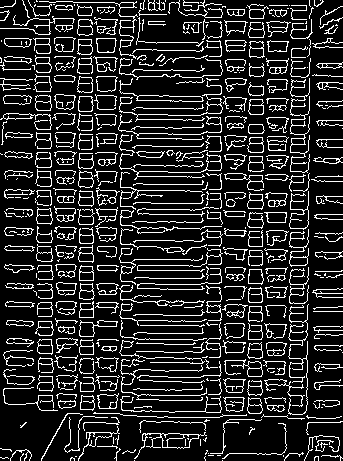
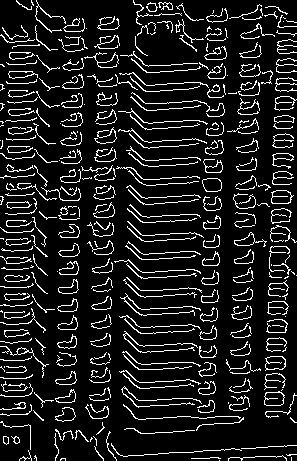
Fix a bug

diff --git a/HoughTransform/HoughTransform.cpp b/HoughTransform/HoughTransform.cpp
@@ -7,7 +7,7 @@ namespace ht {
 
 	void warpImageByDominantOrientation(cv::Mat& image) {
 		double hori, vert;
-		ht::getDominantOrientation(image, 0.5, cv::Size(5, 5), hori, vert);
+		ht::getDominantOrientation(image, cv::Size(5, 5), 15, 0.6, hori, vert);
 
 		std::vector<cv::Point2f> srcTri(3);
 		std::vector<cv::Point2f> dstTri(3);
@@ -24,7 +24,7 @@ namespace ht {
 		cv::imwrite("result.png", image);
 	}
 
-	void houghTransform(const cv::Mat& image, cv::Mat& accum) {
+	void houghTransform(const cv::Mat& image, const cv::Size& kernel, cv::Mat& accum) {
 		// convert the image to grayscale
 		cv::Mat grayImg;
 		if (image.channels() == 1) {
@@ -69,71 +69,42 @@ namespace ht {
 	/**
 	 * 指定された画像のエッジを抽出し、水平方向および垂直方向のdominantな角度を返却する。
 	 */
-	void getDominantOrientation(const cv::Mat& image, float threshold_ratio, const cv::Size& kernel, double& hori, double& vert) {
+	void getDominantOrientation(const cv::Mat& image, const cv::Size& kernel, int max_degree, float threshold_ratio, double& hori, double& vert) {
 		cv::Mat accum;
-		houghTransform(image, accum);
+		houghTransform(image, kernel, accum);
 
-		visualizeAccum(image, accum, threshold_ratio, "image_edge.png");
+		visualizeAccum(image, accum, max_degree, threshold_ratio, "image_edge.png");
 
-		//cv::blur(accum, accum, cv::Size(kernel.width, kernel.height));
-		//visualizeAccum(image, accum, "image_edge.png");
-
-		//saveImage(accum, "accum_blur.png");
-
-		vert = getVerticalOrientation(accum, threshold_ratio, kernel);
-		hori = getHorizontalOrientation(accum, threshold_ratio, kernel);
+		vert = getVerticalOrientation(accum, max_degree, threshold_ratio);
+		hori = getHorizontalOrientation(accum, max_degree, threshold_ratio);
 
 		std::cout << "Vert: " << vert << ", Hori: " << hori << std::endl;
 	}
 
-	float getVerticalOrientation(const cv::Mat& accum, float threshold_ratio, const cv::Size& kernel) {
+	float getVerticalOrientation(const cv::Mat& accum, int max_degree, float threshold_ratio) {
 		// find teh maximum value
-		cv::Mat accum_max;
-		cv::reduce(accum, accum_max, 0, CV_REDUCE_MAX);
-
-		float v_max = 0.0f;
-		for (int t = 0; t < 180; ++t) {
-			if (t > 20 && t < 160) continue;
-
-			if (accum_max.at<float>(0, t) > v_max) {
-				v_max = accum_max.at<float>(0, t);
-			}
-		}
+		float v_max = getVerticalAccumMax(accum, max_degree);
 
 		// change the value below the threshold to 0
 		cv::Mat accumV;
 		cv::threshold(accum, accumV, v_max * threshold_ratio, 255, cv::THRESH_TOZERO);
 		for (int r = 0; r < accumV.rows; ++r) {
 			for (int c = 0; c < accumV.cols; ++c) {
-				if (c > 20 && c < 160) accumV.at<float>(r, c) = 0;
+				if (c > max_degree && c < 180 - max_degree) accumV.at<float>(r, c) = 0;
 			}
 		}
 		//saveImage(accumV, "accumV_th.png");
 
 		// clean up the accum by only keeping the local maximum
 		cv::Mat accumV_refined(accumV.size(), CV_32F, cv::Scalar(0.0f));
-
 		for (int r = 0; r < accumV.rows; ++r) {
 			for (int t = 0; t < 180; ++t) {
-				if (t > 20 && t < 160) continue;
+				if (t > max_degree && t < 180 - max_degree) continue;
 				if (accumV.at<float>(r, t) == 0) continue;
-
-				//Is this point a local maxima (9x9)  
-				int max = accumV.at<float>(r, t);
-				for (int ly = -4; ly <= 4; ly++) {
-					for (int lx = -4; lx <= 4; lx++) {
-						if ((ly + r >= 0 && ly + r < accumV.rows) && (lx + t >= 0 && lx + t < accumV.cols)) {
-							if (accumV.at<float>(r + ly, t + lx) > max) {
-								max = accumV.at<float>(r + ly, t + lx);
-								ly = lx = 5;
-							}
-						}
-					}
-				}
-				if (max > accumV.at<float>(r, t)) continue;
-
-				accumV_refined.at<float>(r, t) += accumV.at<float>(r, t);
-				//accumV_refined.at<float>(r, t) += 1.0f;
+				if (!isLocalMaximum(accumV, r, t, 4)) continue;
+				
+				accumV_refined.at<float>(r, t) = accumV.at<float>(r, t);
+				//accumV_refined.at<float>(r, t) = 1.0f;
 			}
 		}
 		//saveImage(accumV_refined, "accumV_refined.png");
@@ -143,13 +114,13 @@ namespace ht {
 		cv::reduce(accumV_refined, accumV_refined, 0, CV_REDUCE_SUM);
 		//saveHistogram(accumV_refined, "accumV_hist.png");
 		v_max = 0.0f;
-		for (int t = 0; t <= 20; ++t) {
+		for (int t = 0; t <= max_degree; ++t) {
 			if (accumV_refined.at<float>(0, t) > v_max) {
 				v_max = accumV_refined.at<float>(0, t);
 				vert = t + 90;
 			}
 		}
-		for (int t = 160; t < 180; ++t) {
+		for (int t = 180 - max_degree; t < 180; ++t) {
 			if (accumV_refined.at<float>(0, t) > v_max) {
 				v_max = accumV_refined.at<float>(0, t);
 				vert = t - 180 + 90;
@@ -159,60 +130,39 @@ namespace ht {
 		return vert;
 	}
 
-	float getHorizontalOrientation(const cv::Mat& accum, float threshold_ratio, const cv::Size& kernel) {
+	float getHorizontalOrientation(const cv::Mat& accum, int max_degree, float threshold_ratio) {
 		// find teh maximum value
-		cv::Mat accum_max;
-		cv::reduce(accum, accum_max, 0, CV_REDUCE_MAX);
-
-		float h_max = 0.0f;
-		for (int t = 70; t <= 110; ++t) {
-			if (accum_max.at<float>(0, t) > h_max) {
-				h_max = accum_max.at<float>(0, t);
-			}
-		}
+		float h_max = getHorizontalAccumMax(accum, max_degree);
 
 		// change the value below the threshold to 0
 		cv::Mat accumH;
 		cv::threshold(accum, accumH, h_max * threshold_ratio, 255, cv::THRESH_TOZERO);
 		for (int r = 0; r < accumH.rows; ++r) {
 			for (int c = 0; c < accumH.cols; ++c) {
-				if (c < 70 || c > 110) accumH.at<float>(r, c) = 0;
+				if (c < 90 - max_degree || c > 90 + max_degree) accumH.at<float>(r, c) = 0;
 			}
 		}
 		//saveImage(accumH, "accumH_th.png");
 
 		// clean up the accum by only keeping the local maximum
 		cv::Mat accumH_refined(accumH.size(), CV_32F, cv::Scalar(0.0f));
-
 		for (int r = 0; r < accumH.rows; ++r) {
-			for (int t = 70; t <= 110; ++t) {
+			for (int t = 90 - max_degree; t <= 90 + max_degree; ++t) {
 				if (accumH.at<float>(r, t) == 0) continue;
+				if (!isLocalMaximum(accumH, r, t, 4)) continue;
 
-				//Is this point a local maxima (9x9)  
-				int max = accumH.at<float>(r, t);
-				for (int ly = -4; ly <= 4; ly++) {
-					for (int lx = -4; lx <= 4; lx++) {
-						if ((ly + r >= 0 && ly + r < accumH.rows) && (lx + t >= 0 && lx + t < accumH.cols)) {
-							if (accumH.at<float>(r + ly, t + lx) > max) {
-								max = accumH.at<float>(r + ly, t + lx);
-								ly = lx = 5;
-							}
-						}
-					}
-				}
-				if (max > accumH.at<float>(r, t)) continue;
-
-				//accumH_refined.at<float>(r, t) += accumV.at<float>(r, t);
-				accumH_refined.at<float>(r, t) += 1.0f;
+				accumH_refined.at<float>(r, t) = accumH.at<float>(r, t);
+				//accumH_refined.at<float>(r, t) = 1.0f;
 			}
 		}
-				
+		//saveImage(accumH_refined, "accumH_refined.png");
+
 		// find the theta that has the maximum value
 		float hori = 0.0f;
 		cv::reduce(accumH_refined, accumH_refined, 0, CV_REDUCE_SUM);
-		//saveHistogram(accumH_refined, "accumH_hist.png");
+		saveHistogram(accumH_refined, "accumH_hist.png");
 		h_max = 0.0f;
-		for (int t = 70; t <= 110; ++t) {
+		for (int t = 90 - max_degree; t <= 90 + max_degree; ++t) {
 			if (accumH_refined.at<float>(0, t) > h_max) {
 				h_max = accumH_refined.at<float>(0, t);
 				hori = t - 90;
@@ -220,6 +170,54 @@ namespace ht {
 		}
 
 		return hori;
+	}
+
+	float getVerticalAccumMax(const cv::Mat& accum, float max_degree) {
+		cv::Mat accum_max;
+		cv::reduce(accum, accum_max, 0, CV_REDUCE_MAX);
+
+		// find the maximum value
+		float v_max = 0.0f;
+		for (int t = 0; t < 180; ++t) {
+			if (t > max_degree && t < 180 - max_degree) continue;
+
+			if (accum_max.at<float>(0, t) > v_max) {
+				v_max = accum_max.at<float>(0, t);
+			}
+		}
+
+		return v_max;
+	}
+
+	float getHorizontalAccumMax(const cv::Mat& accum, float max_degree) {
+		cv::Mat accum_max;
+		cv::reduce(accum, accum_max, 0, CV_REDUCE_MAX);
+
+		// find the maximum value
+		float h_max = 0.0f;
+		for (int t = 90 - max_degree; t <= 90 + max_degree; ++t) {
+			if (accum_max.at<float>(0, t) > h_max) {
+				h_max = accum_max.at<float>(0, t);
+			}
+		}
+
+		return h_max;
+	}
+
+	bool isLocalMaximum(const cv::Mat& mat, int r, int c, int size = 4) {
+		int value = mat.at<float>(r, c);
+
+		for (int ly = -size; ly <= size; ly++) {
+			for (int lx = -size; lx <= size; lx++) {
+				if ((ly + r >= 0 && ly + r < mat.rows) && (lx + c >= 0 && lx + c < mat.cols)) {
+					if (mat.at<float>(r + ly, c + lx) > value) {
+						return false;
+					}
+				}
+			}
+		}
+		
+		return true;
 	}
 
 	void saveImage(const cv::Mat& image, const std::string& filename) {
@@ -258,34 +256,38 @@ namespace ht {
 		cv::imwrite(filename.c_str(), hist);
 	}
 
-	void visualizeAccum(const cv::Mat& image, const cv::Mat& accum, float threshold_ratio, const std::string& filename) {
-		cv::Mat accum_max;
-		cv::reduce(accum, accum_max, 0, CV_REDUCE_MAX);
-		cv::reduce(accum_max, accum_max, 1, CV_REDUCE_MAX);
+	void visualizeAccum(const cv::Mat& image, const cv::Mat& accum, int max_degree, float threshold_ratio, const std::string& filename) {
+		float v_max = getVerticalAccumMax(accum, max_degree);
+		float h_max = getHorizontalAccumMax(accum, max_degree);
 
-		cv::Mat accum_threshold;
-		cv::threshold(accum, accum_threshold, accum_max.at<float>(0, 0) * threshold_ratio, 255, cv::THRESH_TOZERO);
+		// apply threshold
+		cv::Mat accum_threshold = accum.clone();
+		for (int r = 0; r < accum_threshold.rows; ++r) {
+			for (int t = 0; t < 180; ++t) {
+				if (t <= max_degree || t >= 180 - max_degree) {
+					if (accum_threshold.at<float>(r, t) < v_max * threshold_ratio) {
+						accum_threshold.at<float>(r, t) = 0;
+					}
+				}
+				else if (t >= 90 - max_degree && t <= 90 + max_degree) {
+					if (accum_threshold.at<float>(r, t) < h_max * threshold_ratio) {
+						accum_threshold.at<float>(r, t) = 0;
+					}
+				}
+				else {
+					accum_threshold.at<float>(r, t) = 0;
+				}
+			}
+		}
 
+		// visualize the result
 		cv::Mat result = image.clone();
-
 		for (int r = 0; r < accum_threshold.rows; ++r) {
 			for (int t = 0; t < accum_threshold.cols; ++t) {
-				if ((t > 20 && t < 70) || (t > 110 && t < 160)) continue;
+				if ((t > max_degree && t < 90 - max_degree) || (t > 90 + max_degree && t < 180 - max_degree)) continue;
 
 				if (accum_threshold.at<float>(r, t) > 0) {
-					//Is this point a local maxima (9x9)  
-					int max = accum_threshold.at<float>(r, t);
-					for (int ly = -4; ly <= 4; ly++) {
-						for (int lx = -4; lx <= 4; lx++) {
-							if ((ly + r >= 0 && ly + r < accum_threshold.rows) && (lx + t >= 0 && lx + t < accum_threshold.cols)) {
-								if (accum_threshold.at<float>(r + ly, t + lx) > max) {
-									max = accum_threshold.at<float>(r + ly, t + lx);
-									ly = lx = 5;
-								}
-							}
-						}
-					}
-					if (max > accum_threshold.at<float>(r, t)) continue;
+					if (!isLocalMaximum(accum_threshold, r, t, 4)) continue;
 
 					int x1, y1, x2, y2;
 					x1 = y1 = x2 = y2 = 0;

diff --git a/HoughTransform/HoughTransform.h b/HoughTransform/HoughTransform.h
@@ -7,12 +7,16 @@
 namespace ht {
 
 	void warpImageByDominantOrientation(cv::Mat& image);
-	void houghTransform(const cv::Mat& image, cv::Mat& accum);
-	void getDominantOrientation(const cv::Mat& image, float threshold_ratio, const cv::Size& kernel, double& hori, double& vert);
-	float getVerticalOrientation(const cv::Mat& accum, float threshold_ratio, const cv::Size& kernel);
-	float getHorizontalOrientation(const cv::Mat& accum, float threshold_ratio, const cv::Size& kernel);
+	void houghTransform(const cv::Mat& image, const cv::Size& kernel, cv::Mat& accum);
+	void getDominantOrientation(const cv::Mat& image, const cv::Size& kernel, int max_degree, float threshold_ratio, double& hori, double& vert);
+	float getVerticalOrientation(const cv::Mat& accum, int max_degree, float threshold_ratio);
+	float getHorizontalOrientation(const cv::Mat& accum, int max_degree, float threshold_ratio);
+	float getVerticalAccumMax(const cv::Mat& accum, float max_degree);
+	float getHorizontalAccumMax(const cv::Mat& accum, float max_degree);
+	bool isLocalMaximum(const cv::Mat& mat, int r, int c, int size);
+
 	void saveImage(const cv::Mat& image, const std::string& filename);
 	void saveHistogram(const cv::Mat& mat, const std::string& filename);
 
-	void visualizeAccum(const cv::Mat& image, const cv::Mat& accum, float threshold_ratio, const std::string& filename);
+	void visualizeAccum(const cv::Mat& image, const cv::Mat& accum, int max_degree, float threshold_ratio, const std::string& filename);
 }

diff --git a/HoughTransform/main.cpp b/HoughTransform/main.cpp
@@ -4,7 +4,7 @@
 #include "HoughTransform.h"
 
 int main() {
-	cv::Mat img = cv::imread("image5.png");
+	cv::Mat img = cv::imread("image6.png");
 	
 	/*
 	std::vector<cv::Point2f> srcTri(3);
